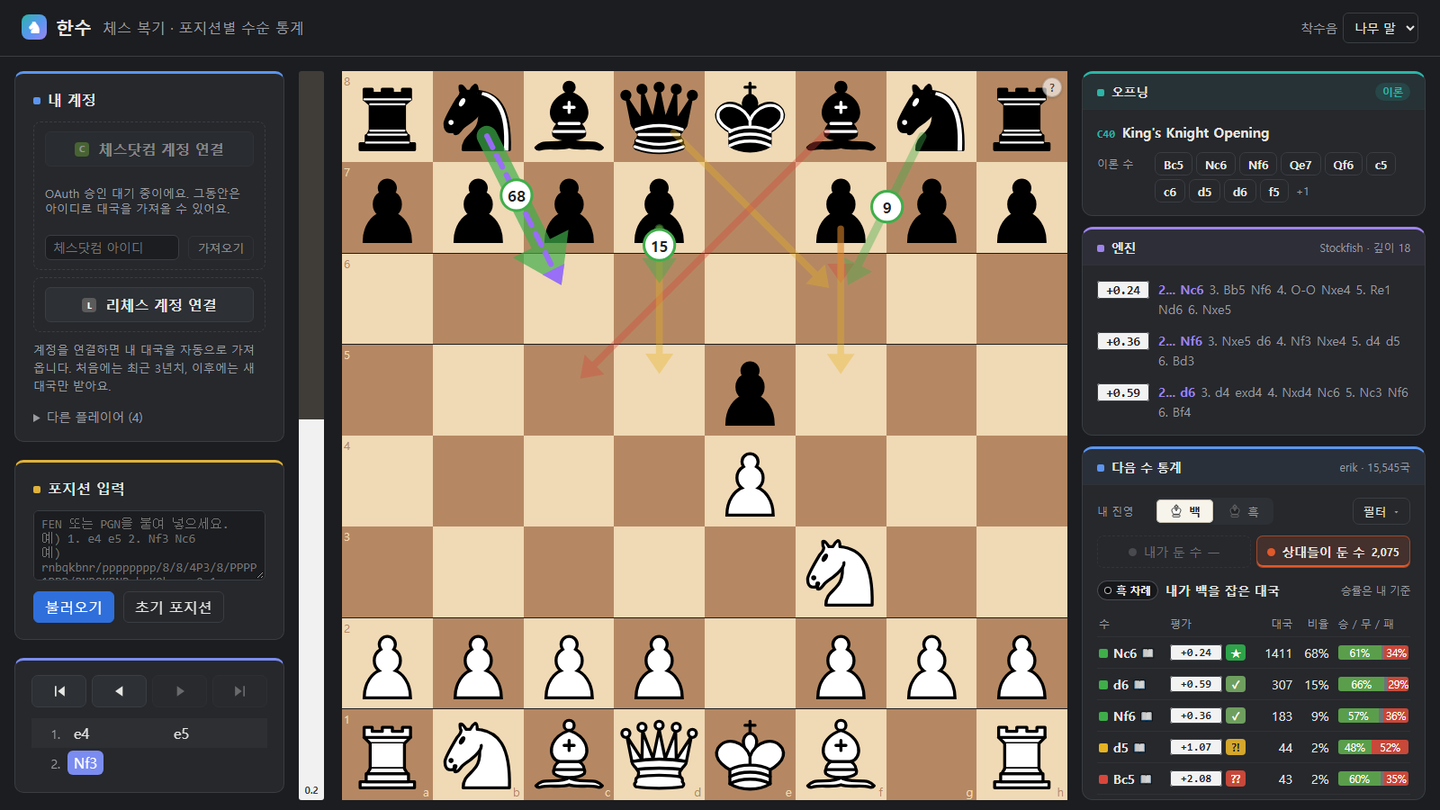
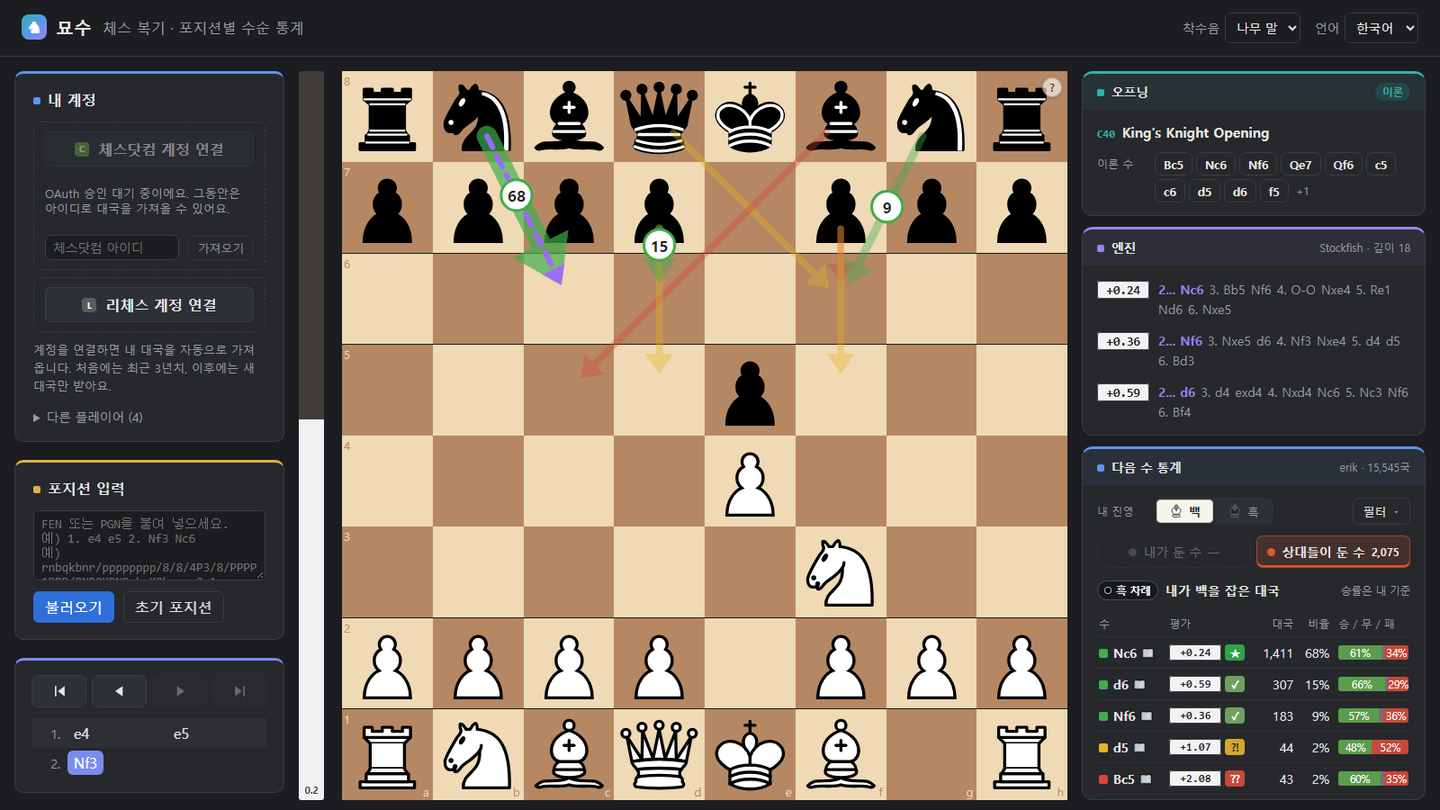
Rename app from 한수 (Hansu) to 묘수 (Myosu)
The name 한수 is already used by another service (한수바둑), so the app is
renamed to 묘수 (Myosu): UI title and header (ko/en), API title, Lichess
OAuth client id, User-Agent, README, CLAUDE.md and the README screenshot.

diff --git a/frontend/src/i18n/en.ts b/frontend/src/i18n/en.ts
@@ -5,8 +5,8 @@ const plural = (n: number, one: string, many: string) => (n === 1 ? one : many)
 
 export const en: Record<MessageKey, Msg> = {
   // App
-  'app.title': 'Hansu · Chess Review',
-  'app.name': 'Hansu',
+  'app.title': 'Myosu · Chess Review',
+  'app.name': 'Myosu',
   'app.subtitle': 'Chess review · move stats by position',
   'app.sound': 'Move sound',
   'app.language': 'Language',

diff --git a/frontend/src/i18n/ko.ts b/frontend/src/i18n/ko.ts
@@ -6,8 +6,8 @@ export type Msg = string | ((p: Params) => string)
 
 export const ko = {
   // 앱
-  'app.title': '한수 · 체스 복기',
-  'app.name': '한수',
+  'app.title': '묘수 · 체스 복기',
+  'app.name': '묘수',
   'app.subtitle': '체스 복기 · 포지션별 수순 통계',
   'app.sound': '착수음',
   'app.language': '언어',

diff --git a/frontend/index.html b/frontend/index.html
@@ -3,7 +3,7 @@
   <head>
     <meta charset="UTF-8" />
     <meta name="viewport" content="width=device-width, initial-scale=1.0" />
-    <title>한수 · 체스 복기</title>
+    <title>묘수 · 체스 복기</title>
   </head>
   <body>
     <div id="root"></div>

diff --git a/backend/app/config.py b/backend/app/config.py
@@ -44,7 +44,7 @@ class Settings:
         default_factory=lambda: os.getenv("PUBLIC_BASE_URL", "http://localhost:5173").rstrip("/")
     )
     # 리체스는 사전 등록 없이 아무 고유 client_id로 OAuth(PKCE)를 쓸 수 있다.
-    lichess_client_id: str = field(default_factory=lambda: os.getenv("LICHESS_CLIENT_ID", "hansu"))
+    lichess_client_id: str = field(default_factory=lambda: os.getenv("LICHESS_CLIENT_ID", "myosu"))
     # 체스닷컴 OAuth는 승인 후 받은 값을 넣는다. 비어 있으면 체스닷컴 계정 연결을 끈다.
     chesscom_client_id: str = field(default_factory=lambda: os.getenv("CHESSCOM_CLIENT_ID", ""))
     chesscom_client_secret: str = field(default_factory=lambda: os.getenv("CHESSCOM_CLIENT_SECRET", ""))
@@ -57,7 +57,7 @@ class Settings:
 
     @property
     def user_agent(self) -> str:
-        base = "hansu/0.1"
+        base = "myosu/0.1"
         return f"{base} (contact: {self.user_agent_contact})" if self.user_agent_contact else base
 
 

diff --git a/backend/app/main.py b/backend/app/main.py
@@ -77,7 +77,7 @@ def create_app(
         yield
         app.state.analysis_service.shutdown()
 
-    app = FastAPI(title="Hansu (한수)", lifespan=lifespan)
+    app = FastAPI(title="Myosu (묘수)", lifespan=lifespan)
     app.state.job_manager = job_manager or ImportJobManager(
         {"chesscom": _run_chesscom, "lichess": _run_lichess}
     )

diff --git a/README.md b/README.md
@@ -1,10 +1,10 @@
-# 한수 (Hansu)
+# 묘수 (Myosu)
 
-**Hansu** is a personal chess game-review tool. It imports your games from Chess.com and Lichess and shows, for any position, which moves *you* and *your opponents* actually played — drawn as arrows on the board, with win/draw/loss rates, Stockfish evaluations and opening names.
+**Myosu** is a personal chess game-review tool. It imports your games from Chess.com and Lichess and shows, for any position, which moves *you* and *your opponents* actually played — drawn as arrows on the board, with win/draw/loss rates, Stockfish evaluations and opening names.
 
 체스닷컴·리체스 대국 기록으로 **"이 포지션에서 나는 주로 뭘 뒀고, 상대들은 뭘 뒀는지"**를 보드 위 화살표로 보여주는 체스 복기 도구입니다.
 
-![한수 화면](docs/screenshot.png)
+![묘수 화면](docs/screenshot.png)
 
 ## 주요 기능
 
@@ -69,7 +69,7 @@ cd frontend && npm run typecheck
 | `USER_AGENT_CONTACT` | 체스닷컴·리체스 API 요청에 붙일 연락처 |
 | `PUBLIC_BASE_URL` | 앱 주소, OAuth 콜백에 사용. 기본 `http://localhost:5173` |
 | `SECRET_KEY` | 세션 쿠키 서명 키. 없으면 `backend/data/secret_key`에 생성 |
-| `LICHESS_CLIENT_ID` | 기본 `hansu` |
+| `LICHESS_CLIENT_ID` | 기본 `myosu` |
 | `CHESSCOM_CLIENT_ID` / `CHESSCOM_CLIENT_SECRET` | 체스닷컴 OAuth 승인 후 설정 |
 
 ## 데이터 출처

diff --git a/CLAUDE.md b/CLAUDE.md
@@ -2,7 +2,7 @@
 
 This file provides guidance to Claude Code (claude.ai/code) when working with code in this repository.
 
-## 한수 (Hansu) — 체스 분석 프로그램
+## 묘수 (Myosu) — 체스 분석 프로그램
 
 이 프로그램은 체스닷컴(Chess.com), 리체스(Lichess.org) 등의 체스 플랫폼의 플레이어 대전 기록을 바탕으로, 플레이어의 체스 수순 통계와 체스 엔진 등의 분석을 통해 체스 복기를 도와주는 역할을 수행한다.
 
